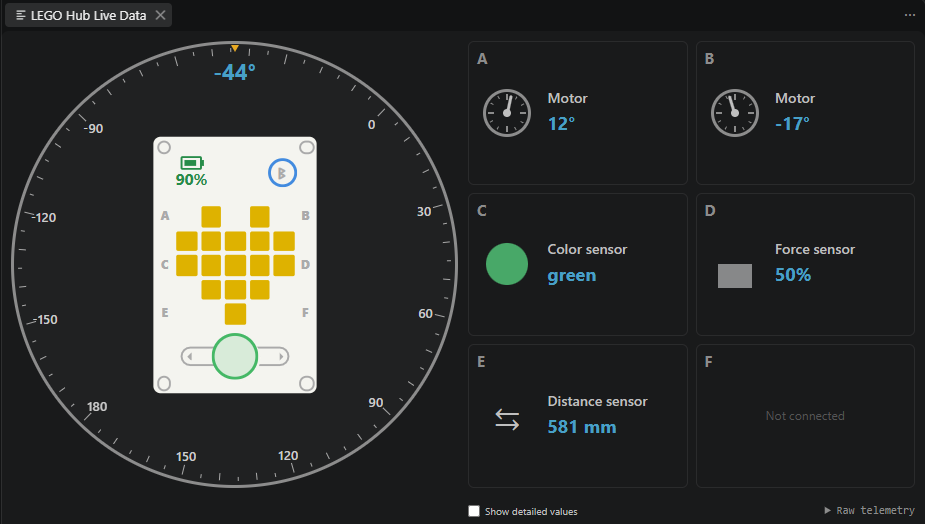
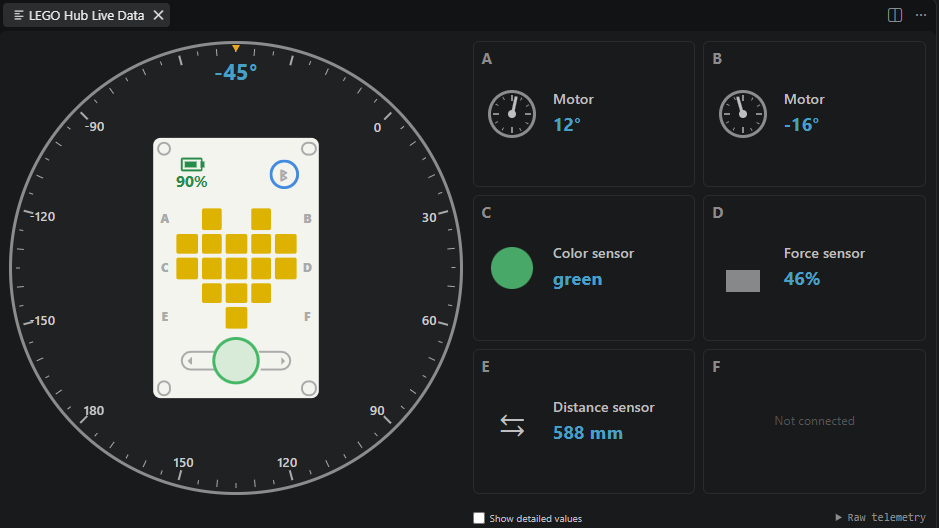
feat: improve live telemetry presentation

diff --git a/src/views/telemetry-dashboard-v2.ts b/src/views/telemetry-dashboard-v2.ts
@@ -11,6 +11,7 @@ export function getTelemetryDashboardHtml(): string {
 .compass-reading{background:var(--vscode-editorWidget-background);border-radius:3px;padding:2px}.compass{container-type:inline-size;overflow:visible}.compass-scale-clip{border-radius:50%;inset:4px;overflow:hidden;position:absolute}.compass-scale{inset:0}.hub-battery{align-items:center;color:#555;display:flex;font-size:8px;font-weight:700;height:15px;justify-content:center;left:10.5px;line-height:1;position:absolute;top:10.5px;width:15px}.pitch-reading{bottom:2px;left:2px;transform:none}.roll-reading{bottom:2px;right:2px;transform:none}.bearing-label{font-size:clamp(9px,3cqw,16px)}.heading-value{font-size:clamp(15px,5cqw,26px);width:20cqw}.compass-reading .reading-name{font-size:clamp(8px,2.7cqw,14px)}.compass-reading .reading-value{font-size:clamp(13px,4.3cqw,22px)}.port{container-type:inline-size}.port .device-name{font-size:clamp(11px,7cqw,15px)}.port .value{font-size:clamp(15px,9cqw,20px)}.port .secondary,.port .empty{font-size:clamp(10px,6cqw,13px)}.port.horizontal{min-height:96px}.port.horizontal .device{align-items:center;display:grid;gap:3px 10px;grid-template-columns:minmax(52px,30%) minmax(0,1fr);grid-template-rows:repeat(3,auto);padding-top:14px;text-align:left}.port.horizontal .device>:first-child{grid-column:1;grid-row:1/4;justify-self:center}.port.horizontal .device-name,.port.horizontal .device>.value,.port.horizontal .device>.secondary{grid-column:2}.port.horizontal .device>.metric-group{justify-content:flex-start}.port.horizontal .device>.metric-group .metric:first-child,.port.horizontal .device>.metric-group .metric+.metric{text-align:left}.dashboard-main{align-items:start}.details-toggle{grid-column:1;grid-row:3;justify-self:start}.raw-panel{grid-column:1;grid-row:3;justify-self:end;margin-top:6px}.raw-panel[open]{grid-column:1;grid-row:4;justify-self:stretch;margin-top:0}.ports-wrap{width:auto}@media(min-width:600px){.dashboard-main{grid-template-columns:repeat(2,minmax(0,1fr))}.orientation-wrap{grid-column:1;grid-row:1}.ports-wrap{grid-column:2;grid-row:1}.details-toggle{grid-column:2;grid-row:2}.raw-panel{grid-column:2;grid-row:2}.raw-panel[open]{grid-column:1/-1;grid-row:3}}@media(min-width:900px){.dashboard-main{grid-template-columns:repeat(2,minmax(0,1fr))}.dashboard-main.raw-open{grid-template-columns:repeat(3,minmax(0,1fr))}.raw-panel[open]{grid-column:3;grid-row:1/3}.dashboard-main.raw-open .details-toggle{grid-column:2}.dashboard-main.raw-open .ports-wrap{grid-column:2}.dashboard-main.raw-open .orientation-wrap{grid-column:1}}
 .heading-value{left:50%;transform:translateX(-50%);width:max-content}.port.horizontal .device{align-content:center;height:100%;padding-top:0}.hub-battery{flex-direction:column;gap:1px;height:auto;text-align:center;top:8px;width:18px}.hub-battery.battery-high{color:#278c49}.hub-battery.battery-medium{color:#e7c547}.hub-battery.battery-low{color:var(--vscode-testing-iconFailed)}.battery-icon{border:1px solid currentColor;border-radius:1px;height:7px;padding:1px;position:relative;width:11px}.battery-icon:after{background:currentColor;content:"";height:3px;left:100%;position:absolute;top:1px;width:2px}.battery-fill{background:currentColor;display:block;height:100%;width:var(--battery-level,0%)}.battery-value{display:block;text-align:center;width:100%}
 .hub-battery{top:10px}.pitch-reading,.roll-reading{background:var(--vscode-sideBar-background,var(--vscode-editor-background))}.raw-panel{border-top:0;padding-top:0}@media(min-width:600px){.ports-wrap{align-self:stretch;min-height:0}.ports{height:100%;min-height:0;grid-template-rows:repeat(3,minmax(0,1fr))}.port,.port.horizontal{height:100%;min-height:0}.port.horizontal .device{align-content:center;height:100%;padding-top:0}}
+@media(min-width:600px){html,body{height:100%;overflow:hidden}.dashboard-main{grid-template-rows:minmax(0,1fr) auto;height:calc(100vh - 20px);max-height:calc(100vh - 20px);overflow:auto}.orientation-wrap,.instruments{height:100%;min-height:0}.compass{height:auto;max-height:none;max-width:100%;width:min(100%,calc(100vh - 49px))}.raw-panel[open]{min-height:0;overflow:auto}}
 </style></head><body>
 <div id="dashboardMain" class="dashboard-main"><div class="orientation-wrap"><div class="instruments"><div class="compass"><div class="compass-scale-clip"><div id="compassScale" class="compass-scale"></div></div><span class="compass-index"></span><strong id="headingValue" class="heading-value">0&deg;</strong><div id="hub" class="hub-wrap"></div><div class="compass-reading pitch-reading"><span class="reading-name">Pitch</span><strong id="pitchValue" class="reading-value">0&deg;</strong></div><div class="compass-reading roll-reading"><span class="reading-name">Roll</span><strong id="rollValue" class="reading-value">0&deg;</strong></div></div></div><button id="connect" class="connect-overlay">Connect</button></div><div class="ports-wrap"><div id="ports" class="ports"></div></div><label class="details-toggle"><input id="showDetails" type="checkbox">Show detailed values</label><details class="raw-panel"><summary>Raw telemetry</summary><div id="raw" class="raw-tree">Waiting for data...</div></details></div>
 <script>

diff --git a/README.md b/README.md
@@ -7,19 +7,56 @@ This extension helps you connect to the SPIKE Prime or MINDSTORMS Robot Inventor
 
 ## Features
 
-Shows the connections status right in the status bar
+### Connect to a hub
+
+The extension supports Bluetooth and USB connections. By default, the hub picker searches both transports together and updates as hubs are discovered. Hub names and addresses make it easier to distinguish multiple nearby hubs. The extension can also reconnect to the last hub when VS Code starts.
+
+The status bar shows the current connection state:
+
 ![status](images/status.png)
 
-\
-Clicking on the status will either connect or disconnect (if already connected).
+Select the status item to connect, or to disconnect when a hub is already connected. Use **LEGO Hub: Set Hub Name** from the Command Palette to rename the connected hub.
 
-\
-Once connected you can start a running program by choosing its slot.
+### Run and upload programs
+
+When a Python editor is active and a hub is connected, the editor title provides controls for programs on the hub and for the current file:
+
+![Program controls in the Python editor](images/file-actions.png)
+
+- **Play** runs a program that is **already stored on the hub**. It prompts for the slot to run; it does not upload the current editor file.
+- **Stop** terminates the program currently running on the hub.
+- **Upload Program** (the refresh symbol) uploads the current Python file. Without a valid slot in a `# LEGO` header, the extension prompts for the destination slot. With a valid header, it uses the declared slot and runs the uploaded program when `autostart` is present.
+- **Show Log Terminal** opens the persistent terminal for program output and extension messages.
+- **Add File Header** helps create the slot and autostart header described below.
+
+The default keyboard shortcuts apply only while a hub is connected and the active Python file begins with `# LEGO`:
+
+| Shortcut   | Action                                                                                              |
+| ---------- | --------------------------------------------------------------------------------------------------- |
+| `F5`       | Upload the current file using its header; run it after upload when the header includes `autostart`. |
+| `Shift+F5` | Stop the program currently running on the hub.                                                      |
+
+These scoped shortcuts replace the normal Python debug actions only for connected LEGO program files.
+
+### Live Data
+
+The **LEGO Hub: Live Data** view displays live telemetry from the connected hub: battery level, Bluetooth state, hub orientation, motor positions, and values from color, force, distance, and matrix devices. The dashboard adapts to the available width, supports optional detailed values and raw telemetry, and marks ports without connected devices.
+
+Use the LEGO Hub activity-bar view for a compact vertical layout:
+
+![Live Data in the LEGO Hub activity-bar view](images/live-data-vert.png)
+
+Use the **Open Live Telemetry in Editor** button in the view title for a wider editor panel:
+
+![Live Data in a wide editor panel](images/live-data-horiz.png)
+
+The update rate is controlled by `legoSpikePrimeMindstorms.telemetryInterval`.
+
+### Start a stored program
+
+The **LEGO Hub: Start Program** command runs code that is already stored in the selected hub slot:
+
 ![slot-selection](images/slot-selection.png)
-
-Also once you are connected in any python file you can execute commands conveniently by using the appropriate button at the top right of the editor file:
-
-![file-actions](images/file-actions.png)
 
 ### Preprocessor
 
@@ -33,18 +70,18 @@ from file_name import *
 is supported. Files not found are skipped (in the hope they exist on the hub). Nevertheless an error will inform you.
 
 > [!NOTE]  
-> This is not supported for web extension usage. 
+> This is not supported for web extension usage.
 
 ### Custom Preprocessor
 
 The plugin has a settings where you can specify an external program/script that should be executed before uploading the program
-to the hub. This will receive the contents of the file as stdin. It should output the resulting file contents to stdout and exit the process with `0`. 
+to the hub. This will receive the contents of the file as stdin. It should output the resulting file contents to stdout and exit the process with `0`.
 
 > [!NOTE]  
 > This will be executed AFTER the builtin preprocessor for combining the files and right before compiling and uploading the program to the hub!
 
 > [!NOTE]  
-> This is not supported for web extension usage. 
+> This is not supported for web extension usage.
 
 ### Raw Message Logging
 
@@ -61,21 +98,25 @@ The extension installs Pylance and configures its bundled HubOS3 type stubs for 
 
 This feature requires the desktop extension host because Pylance cannot index extension files through a browser URI.
 
-## Automatic upload/start of a python file
+## Automatic upload/start of a Python file
 
-During active development you will be uploading a program over and over again so going through all the prompts for type and slot is not very convenient. You can skip those prompts and automatically start the program after uploading by adding a specific comment line as first in your program.
+During active development, you can avoid repeated slot and autostart prompts by placing a LEGO header on the first line of the file:
 
 ```python
-# LEGO  slot:<0-19> [autostart]
+# LEGO slot:<0-19> [autostart]
 ```
 
-For example, if I want the program to be uploaded to slot 5 and autostart it once the upload is finished the comment should be the following
+For example, this uploads the current file to slot 5 and starts it after the upload completes:
 
 ```python
 # LEGO slot:5 autostart
 ```
 
+Without `autostart`, **Upload Program** uploads the file to the declared slot but does not run it. The header must begin at the first character of the first line and uses uppercase `LEGO`.
+
 ## Credits
+
+Thanks to [Peter Staev](https://github.com/PeterStaev), the original author of this extension, and to [pablomatisch](https://github.com/Pablomatisch) for the initial live telemetry support.
 
 Thanks to LEGO Group to publish [extensive docs](https://lego.github.io/spike-prime-docs/index.html) on how to work with the HubOS protocol.
 
